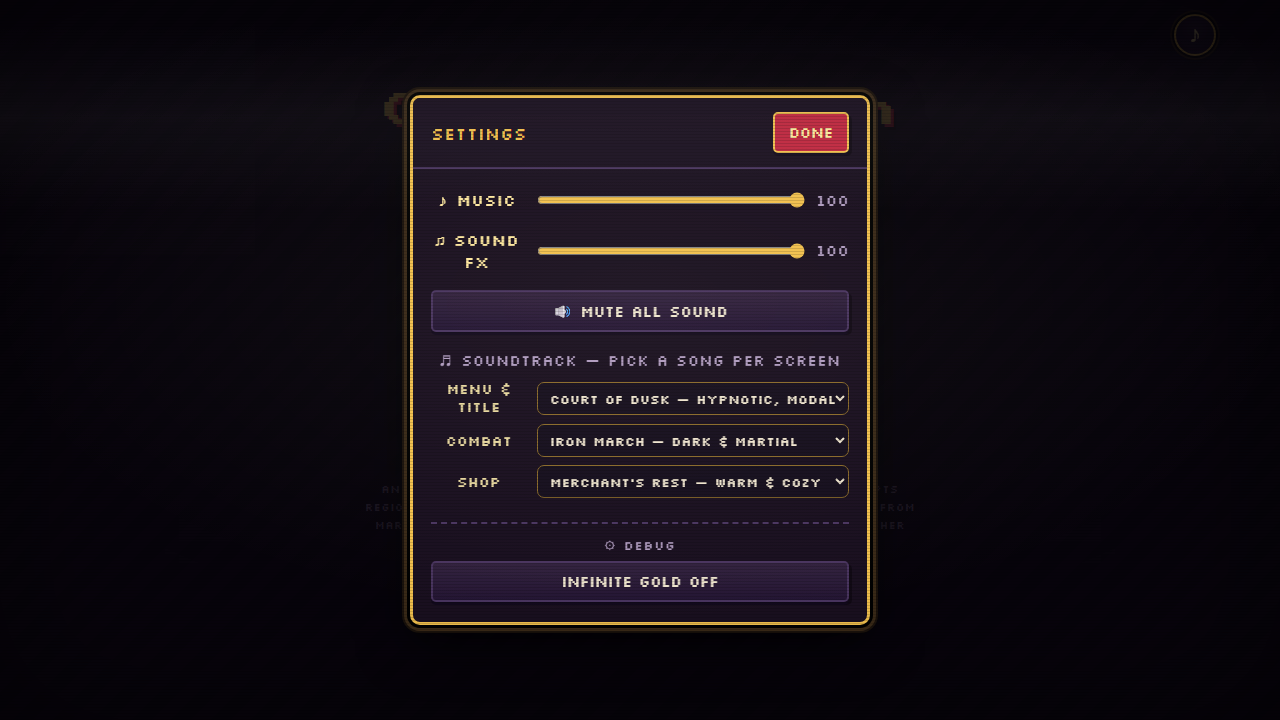
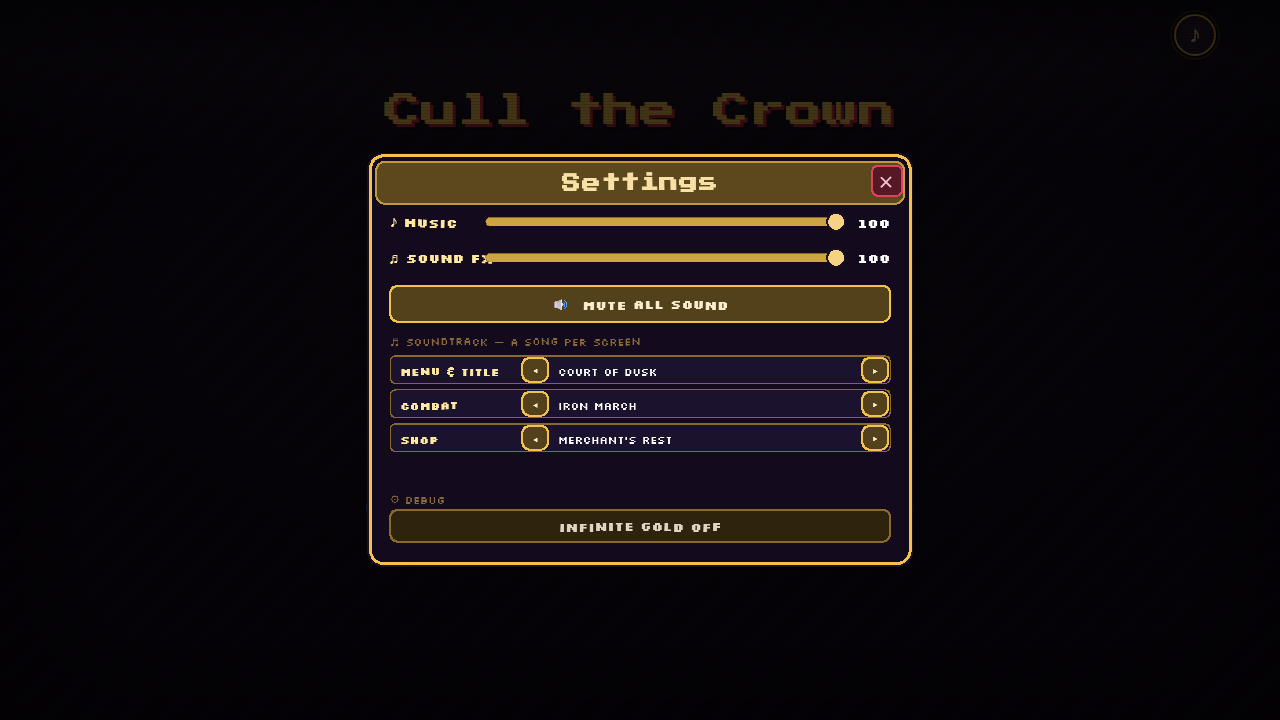
CtC modal migration: Settings → Pixi (+ slider kit widget)
- ModalStage gains slider(): a draggable 0..1 track+thumb with live onChange
  (pointer-down/drag/up handled at the stage level alongside tap/hover).
- ui/PixiSettings.tsx: music + SFX volume sliders, a master-mute toggle, the
  per-screen soundtrack pickers (the DOM <select> becomes a ◂ name ▸ cycle
  stepper — canvas-friendly), and the Debug section (infinite gold + defeat
  royal). Live values held in refs so dragging repaints without a React
  re-render. TitleScreen + PixiPauseMenu open it instead of the DOM Settings.

Verify: tsc clean; soundtrack.spec rewritten — opens the Pixi Settings modal,
real-pointer-clicks the Menu ▸ stepper, asserts the song changes live +
persists. (Dead DOM SettingsMenu.tsx left for the end-of-migration sweep.)

Changed region(s): [[0.2812, 0.1222, 0.7188, 0.8861]]

diff --git a/projects/cull-the-crown/app/src/ui/PixiSettings.tsx b/projects/cull-the-crown/app/src/ui/PixiSettings.tsx
@@ -1,0 +1,154 @@
+import { useEffect, useRef } from "react";
+import { Application } from "pixi.js";
+import { audio, music, SONG_INFO, SCREENS, SCREEN_LABEL, type SongId } from "../audio/chiptune";
+import { useGame } from "./store";
+import { ModalStage } from "../render/ui/modalStage";
+import { THEME } from "../render/theme";
+import { applyPixiFixes } from "../render/pixiFixes";
+
+applyPixiFixes();
+
+// Settings, migrated onto the Pixi modal kit: two draggable volume sliders (music + SFX — the kit's new
+// ModalStage.slider), a master mute toggle, per-screen soundtrack pickers (the DOM <select> becomes a
+// ◂ name ▸ cycle stepper, canvas-friendly), and the Debug section (infinite gold + defeat-royal).
+// Live values live in refs so dragging a slider repaints without a React re-render.
+
+export default function PixiSettings({ onClose }: { onClose: () => void }) {
+  const hostRef = useRef<HTMLDivElement>(null);
+  const modalRef = useRef<ModalStage | null>(null);
+  const musicVol = useRef(audio.musicVolume);
+  const sfxVol = useRef(audio.sfxVolume);
+  const muted = useRef(audio.muted);
+  const songs = useRef<Record<string, SongId>>({ ...audio.screenSongs });
+
+  const rebuild = () => {
+    const m = modalRef.current;
+    if (!m) return;
+    const debug = useGame.getState().debug;
+    const inCombat = useGame.getState().run.phase === "combat" && !useGame.getState().run.combat?.outcome;
+
+    const rowH = 34;
+    const tracksTop = 150;
+    const tracksH = SCREENS.length * rowH;
+    const debugTop = tracksTop + 22 + tracksH + 12;
+    const debugH = debug ? 96 : 56;
+    const panelH = 50 + debugTop + debugH + 16;
+
+    m.show({
+      title: "Settings",
+      panelW: 540,
+      panelH,
+      build: (mm) => {
+        const w = mm.width;
+        // --- volume sliders ---
+        mm.text("♪ Music", 0, 8, 13, THEME.goldBright, { bold: true });
+        mm.slider(96, 12, w - 150, musicVol.current, THEME.gold, (v) => {
+          musicVol.current = v;
+          audio.setMusicVolume(v);
+          music.start();
+          rebuild();
+        });
+        mm.text(`${Math.round(musicVol.current * 100)}`, w, 8, 13, 0xffffff, { anchor: 1, bold: true });
+
+        mm.text("♫ Sound FX", 0, 44, 13, THEME.goldBright, { bold: true });
+        mm.slider(96, 48, w - 150, sfxVol.current, THEME.gold, (v) => {
+          sfxVol.current = v;
+          audio.setSfxVolume(v);
+          rebuild();
+        });
+        mm.text(`${Math.round(sfxVol.current * 100)}`, w, 44, 13, 0xffffff, { anchor: 1, bold: true });
+
+        // --- master mute ---
+        mm.button(muted.current ? "🔇  All sound muted — tap to unmute" : "🔊  Mute all sound", 0, 80, w, 36, muted.current ? THEME.blood : THEME.gold, true, () => {
+          const next = !muted.current;
+          muted.current = next;
+          audio.setMuted(next);
+          music.start();
+          rebuild();
+        });
+
+        // --- per-screen soundtrack steppers ---
+        mm.text("♬ Soundtrack — a song per screen", 0, 128, 11, THEME.parchmentEdge);
+        const cur = (screen: string) => SONG_INFO.findIndex((s) => s.id === songs.current[screen]);
+        const setSong = (screen: string, idx: number) => {
+          const id = SONG_INFO[(idx + SONG_INFO.length) % SONG_INFO.length].id;
+          songs.current = { ...songs.current, [screen]: id };
+          audio.setScreenSong(screen as Parameters<typeof audio.setScreenSong>[0], id);
+          music.start();
+          rebuild();
+        };
+        SCREENS.forEach((screen, i) => {
+          const y = tracksTop + i * rowH;
+          const ci = cur(screen);
+          mm.rect(0, y, w, rowH - 6, 0x1c1430, { alpha: 0.85, radius: 6, stroke: THEME.frameDim });
+          mm.text(SCREEN_LABEL[screen], 10, y + 8, 11, THEME.goldBright, { bold: true });
+          mm.button("◂", 132, y + 2, 26, rowH - 10, THEME.gold, true, () => setSong(screen, ci - 1), 13);
+          mm.text(SONG_INFO[ci]?.name ?? "—", 168, y + 8, 11, 0xffffff, { wrap: w - 168 - 40 });
+          mm.button("▸", w - 28, y + 2, 26, rowH - 10, THEME.gold, true, () => setSong(screen, ci + 1), 13);
+        });
+
+        // --- debug ---
+        mm.text("⚙ Debug", 0, debugTop, 11, THEME.parchmentEdge);
+        mm.button(debug ? "✓ Infinite gold ON" : "Infinite gold OFF", 0, debugTop + 18, w, 32, debug ? THEME.good : THEME.frameDim, true, () => {
+          useGame.getState().setDebug(!debug);
+          rebuild();
+        });
+        if (debug) {
+          mm.button("⚔ Defeat current royal", 0, debugTop + 54, w, 32, THEME.blood, inCombat, () => {
+            useGame.getState().dispatch({ type: "debugDefeat" });
+            onClose();
+          });
+        }
+      },
+    });
+  };
+
+  useEffect(() => {
+    let cancelled = false;
+    const app = new Application();
+    void (async () => {
+      await app.init({ resizeTo: window, backgroundAlpha: 0, antialias: false, roundPixels: true, resolution: Math.min(3, Math.max(2, Math.round(window.devicePixelRatio || 2))), autoDensity: true });
+      try {
+        await Promise.all([document.fonts.load("12px 'Silkscreen'"), document.fonts.load("16px 'Press Start 2P'")]);
+      } catch {
+        /* system font fallback */
+      }
+      if (cancelled) {
+        app.destroy(true, { children: true });
+        return;
+      }
+      const host = hostRef.current;
+      if (host) {
+        host.appendChild(app.canvas);
+        const cv = app.canvas;
+        cv.style.position = "fixed";
+        cv.style.inset = "0";
+        cv.style.width = "100vw";
+        cv.style.height = "100vh";
+        cv.style.zIndex = "9000";
+        cv.style.imageRendering = "pixelated";
+      }
+      const modal = new ModalStage(app);
+      modal.onClose = onClose;
+      modalRef.current = modal;
+      rebuild();
+    })();
+    const onKey = (e: KeyboardEvent) => {
+      if (e.key === "Escape") onClose();
+    };
+    window.addEventListener("keydown", onKey);
+    return () => {
+      cancelled = true;
+      window.removeEventListener("keydown", onKey);
+      const m = modalRef.current;
+      modalRef.current = null;
+      if (m) {
+        m.destroy();
+        m.app.destroy(true, { children: true });
+      }
+    };
+    // eslint-disable-next-line react-hooks/exhaustive-deps
+  }, []);
+
+  return <div ref={hostRef} className="pixi-modal-host" />;
+}

diff --git a/projects/cull-the-crown/app/tests/e2e/soundtrack.spec.ts b/projects/cull-the-crown/app/tests/e2e/soundtrack.spec.ts
@@ -1,9 +1,10 @@
 import { test, expect } from "@playwright/test";
 
-// The Settings soundtrack picker: one dropdown per main screen (Menu / Combat / Shop), each choosing
-// a song from the catalog. Selecting updates the live audio engine + persists, and (for the active
-// screen) restarts the score so the change is heard at once.
-test("per-screen soundtrack dropdowns select + persist songs", async ({ page }) => {
+// Settings is now a Pixi modal (PixiSettings on ModalStage). The per-screen soundtrack <select>s became
+// ◂ name ▸ cycle steppers drawn on the canvas. This opens Settings (the title button is still DOM),
+// verifies the Pixi modal mounts, and real-pointer-clicks the Menu row's ▸ stepper — asserting the live
+// audio engine + localStorage update (the change is heard at once on the active screen).
+test("the soundtrack steppers change + persist the per-screen song", async ({ page }) => {
   const errors: string[] = [];
   page.on("pageerror", (e) => errors.push(`PAGEERROR: ${e.message}`));
 
@@ -12,29 +13,26 @@ test("per-screen soundtrack dropdowns select + persist songs", async ({ page }) 
   if (await tut.isVisible().catch(() => false)) await page.getByRole("button", { name: "Close" }).click();
 
   await page.getByRole("button", { name: /Settings/ }).click();
-  await expect(page.getByRole("dialog", { name: "Settings" })).toBeVisible();
-
-  const selects = page.locator(".track-select");
-  await expect(selects).toHaveCount(3); // one per main screen
+  await expect(page.locator(".pixi-modal-host canvas")).toBeVisible({ timeout: 15000 });
+  await page.waitForTimeout(400);
   await page.screenshot({ path: "screenshots/settings-soundtracks.png" });
 
-  // defaults: menu→court, combat→iron, shop→market
-  expect(await selects.nth(0).inputValue()).toBe("court");
-  expect(await selects.nth(1).inputValue()).toBe("iron");
-  expect(await selects.nth(2).inputValue()).toBe("market");
+  type Au = { __ctcAudio: { screenSong: Record<string, string> } };
+  // default: the Menu screen plays "court"
+  expect(await page.evaluate(() => (window as unknown as Au).__ctcAudio.screenSong.menu)).toBe("court");
 
-  // change the MENU song (the screen playing on the title) → engine + persistence update live
-  await selects.nth(0).selectOption("gauntlet");
-  await page.waitForTimeout(120);
-  expect(await page.evaluate(() => (window as unknown as { __ctcAudio: { screenSong: Record<string, string> } }).__ctcAudio.screenSong.menu)).toBe("gauntlet");
+  // Real-pointer ▸ on the Menu row. Panel 540 wide; with 3 screens + debug off, panelH = 408 (formula:
+  // 50 + (150 + 22 + 3*34 + 12) + 56 + 16). Content origin (PAD 20, HEADER 50); Menu row y 150, ▸ at
+  // content-x (innerW 500 − 28) → centre ≈ 485, y ≈ 164.
+  const p = await page.evaluate(() => ({ x: (window.innerWidth - 540) / 2 + 20 + 485, y: (window.innerHeight - 408) / 2 + 50 + 164 }));
+  await page.mouse.click(p.x, p.y);
+  await page.waitForTimeout(150);
 
-  // change the COMBAT song
-  await selects.nth(1).selectOption("gilded");
-  await page.waitForTimeout(120);
-
+  // the stepper advanced the Menu song off the default, live + persisted
+  expect(await page.evaluate(() => (window as unknown as Au).__ctcAudio.screenSong.menu)).not.toBe("court");
   const persisted = await page.evaluate(() => JSON.parse(localStorage.getItem("ctc_screen_songs") ?? "{}"));
-  expect(persisted.menu).toBe("gauntlet");
-  expect(persisted.combat).toBe("gilded");
+  expect(persisted.menu).not.toBe("court");
+  expect(persisted.menu).toBeTruthy();
 
   expect(errors, errors.join("\n")).toEqual([]);
 });

diff --git a/projects/cull-the-crown/app/src/render/ui/modalStage.ts b/projects/cull-the-crown/app/src/render/ui/modalStage.ts
@@ -40,6 +40,8 @@ export class ModalStage {
   private wigTick = (tk: { deltaMS: number }) => this.wig.update(tk.deltaMS / 1000);
   private hits: Hit[] = [];
   private hoverIdx = -1;
+  private sliders: { x: number; y: number; w: number; h: number; onChange: (v: number) => void }[] = [];
+  private dragSlider: { x: number; w: number; onChange: (v: number) => void } | null = null;
   private content?: ModalContent;
   private panelX = 0;
   private panelY = 0;
@@ -63,7 +65,25 @@ export class ModalStage {
         this.onClose?.(); // click outside the panel = dismiss (Balatro)
       }
     });
+    app.stage.on("pointerdown", (e) => {
+      const s = this.sliders.find((sl) => e.global.x >= sl.x - 8 && e.global.x <= sl.x + sl.w + 8 && e.global.y >= sl.y - 10 && e.global.y <= sl.y + sl.h + 10);
+      if (s) {
+        this.dragSlider = { x: s.x, w: s.w, onChange: s.onChange };
+        s.onChange(Math.max(0, Math.min(1, (e.global.x - s.x) / s.w)));
+      }
+    });
+    const endDrag = () => {
+      this.dragSlider = null;
+    };
+    app.stage.on("pointerup", endDrag);
+    app.stage.on("pointerupoutside", endDrag);
     app.stage.on("globalpointermove", (e) => {
+      if (this.dragSlider) {
+        const d = this.dragSlider;
+        this.app.stage.cursor = "pointer";
+        d.onChange(Math.max(0, Math.min(1, (e.global.x - d.x) / d.w)));
+        return;
+      }
       const i = this.hitIndexAt(e.global.x, e.global.y);
       app.stage.cursor = i >= 0 ? "pointer" : "default";
       // Only buttons restyle on hover; plain hit regions (cards) don't, so moving across a big card
@@ -139,6 +159,21 @@ export class ModalStage {
   hit(x: number, y: number, w: number, h: number, fn: () => void): void {
     this.hits.push({ x: this.cx + x, y: this.cy + y, w, h, fn, hover: false });
   }
+  /** A draggable 0..1 slider track (content-relative). onChange fires live while dragging or on click. */
+  slider(x: number, y: number, w: number, value01: number, accent: number, onChange: (v: number) => void): void {
+    const sx = this.cx + x;
+    const sy = this.cy + y;
+    const h = 8;
+    const v = Math.max(0, Math.min(1, value01));
+    const track = new Graphics();
+    track.roundRect(sx, sy, w, h, 4).fill({ color: 0x140a1e }).stroke({ width: 1.5, color: THEME.frameDim });
+    if (v > 0.001) track.roundRect(sx, sy, w * v, h, 4).fill({ color: shade(accent, -0.15) });
+    this.root.addChild(track);
+    const thumb = new Graphics();
+    thumb.circle(sx + w * v, sy + h / 2, 9).fill({ color: shade(accent, 0.3) }).stroke({ width: 2, color: THEME.ink });
+    this.root.addChild(thumb);
+    this.sliders.push({ x: sx, y: sy, w, h, onChange });
+  }
 
   private inside(h: Hit, x: number, y: number): boolean {
     return x >= h.x && x <= h.x + h.w && y >= h.y && y <= h.y + h.h;
@@ -160,6 +195,7 @@ export class ModalStage {
   private draw(): void {
     this.root.removeChildren();
     this.hits = [];
+    this.sliders = [];
     this.wig.reset();
     const c = this.content;
     if (!c) return;

diff --git a/projects/cull-the-crown/app/src/ui/PixiPauseMenu.tsx b/projects/cull-the-crown/app/src/ui/PixiPauseMenu.tsx
@@ -2,7 +2,7 @@ import { useEffect, useRef, useState } from "react";
 import { Application } from "pixi.js";
 import { useGame } from "./store";
 import Collection from "./Collection";
-import SettingsMenu from "./SettingsMenu";
+import PixiSettings from "./PixiSettings";
 import { ModalStage } from "../render/ui/modalStage";
 import { THEME } from "../render/theme";
 import { applyPixiFixes } from "../render/pixiFixes";
@@ -15,7 +15,7 @@ applyPixiFixes();
 export default function PixiPauseMenu() {
   const [view, setView] = useState<"menu" | "compendium" | "settings">("menu");
   if (view === "compendium") return <Collection onClose={() => setView("menu")} />;
-  if (view === "settings") return <SettingsMenu onClose={() => setView("menu")} />;
+  if (view === "settings") return <PixiSettings onClose={() => setView("menu")} />;
   return <PixiPauseModal onCompendium={() => setView("compendium")} onSettings={() => setView("settings")} />;
 }
 

diff --git a/projects/cull-the-crown/app/src/ui/TitleScreen.tsx b/projects/cull-the-crown/app/src/ui/TitleScreen.tsx
@@ -1,7 +1,7 @@
 import { useState } from "react";
 import { hasSavedRun } from "./store";
 import RunSetup from "./RunSetup";
-import SettingsMenu from "./SettingsMenu";
+import PixiSettings from "./PixiSettings";
 import PastRunsOverlay from "./PastRunsOverlay";
 import Collection from "./Collection";
 
@@ -35,7 +35,7 @@ export default function TitleScreen() {
         by Balatro. No publisher art or branding.
       </p>
       {overlay === "setup" && <RunSetup onClose={() => setOverlay(null)} />}
-      {overlay === "settings" && <SettingsMenu onClose={() => setOverlay(null)} />}
+      {overlay === "settings" && <PixiSettings onClose={() => setOverlay(null)} />}
       {overlay === "past" && <PastRunsOverlay onClose={() => setOverlay(null)} />}
       {overlay === "collection" && <Collection onClose={() => setOverlay(null)} />}
     </div>
